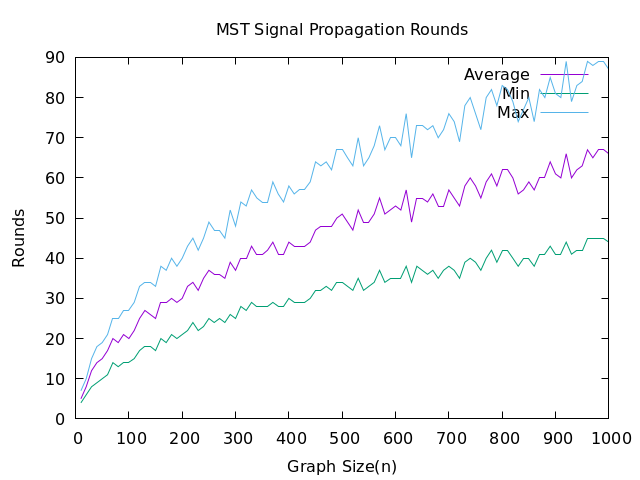
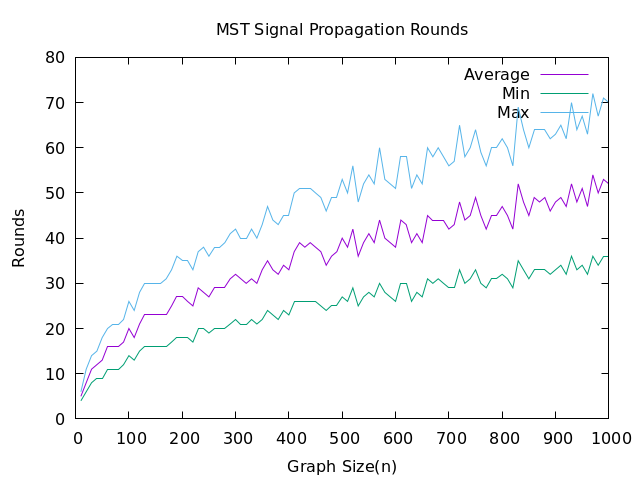
[aisd] Fixed a bug in task 2 from list 5

diff --git a/sem4/aisd/list5/Graph.cpp b/sem4/aisd/list5/Graph.cpp
@@ -138,54 +138,67 @@ std::vector<Edge> Graph::getEdges() const {
     return edges_;
 }
 
-std::pair<std::vector<int>, int> Graph::findShortestInfoSpreadOrder(const int startNode) const {
-    std::vector<std::vector<int>> adjacencyList = createAdjacencyList();
-    std::vector<int> nodeRoundNumbers(size_, -1);
+std::pair<std::vector<std::vector<int>>, std::vector<int>> Graph::findShortestInfoSpreadOrder(
+    const int startNode) const {
+    std::vector<std::vector<int>> childrenLists = createChildrenLists(startNode);
+    std::vector<std::vector<int>> order(size_);
+    std::vector<int> roundsLeft(size_, 0);
+
+    findShortestInfoSpreadOrder(startNode, childrenLists, order, roundsLeft);
+
+    return std::make_pair(order, roundsLeft);
+}
+
+std::vector<std::vector<int>> Graph::createChildrenLists(const int startNode) const {
+    std::vector<std::vector<int>> childrenLists(size_);
+    std::vector<bool> visited(size_, false);
     std::queue<int> nodesToVisit;
 
     nodesToVisit.push(startNode);
-    nodeRoundNumbers[startNode] = 0;
-    int finalRoundNumber = 0;
+    visited[startNode] = true;
 
     while (!nodesToVisit.empty()) {
-        for (int i = 0; i < nodesToVisit.size(); i++) {
-            const int currentNode = nodesToVisit.front();
-            nodesToVisit.pop();
+        const int currentNode = nodesToVisit.front();
+        nodesToVisit.pop();
 
-            std::vector<int> unvisitedNeighbours;
-            for (const int neighbour : adjacencyList[currentNode]) {
-                if (nodeRoundNumbers[neighbour] == -1) {
-                    unvisitedNeighbours.push_back(neighbour);
-                }
-            }
-            std::sort(unvisitedNeighbours.begin(), unvisitedNeighbours.end(),
-                      [&](const int a, const int b) { return adjacencyList[a].size() > adjacencyList[b].size(); });
-            int currentRoundNumber = nodeRoundNumbers[currentNode] + 1;
-
-            for (const int neighbour : unvisitedNeighbours) {
-                if (nodeRoundNumbers[neighbour] == -1) {
-                    nodeRoundNumbers[neighbour] = currentRoundNumber;
-                    finalRoundNumber = std::max(finalRoundNumber, currentRoundNumber);
-                    nodesToVisit.push(neighbour);
-                    currentRoundNumber++;
-                }
+        for (int neighbour = 0; neighbour < size_; neighbour++) {
+            if (!visited[neighbour] && adjacencyMatrix_[currentNode][neighbour] != UNCONNECTED_WEIGHT_) {
+                childrenLists[currentNode].push_back(neighbour);
+                nodesToVisit.push(neighbour);
+                visited[neighbour] = true;
             }
         }
     }
 
-    return std::make_pair(nodeRoundNumbers, finalRoundNumber);
+    return childrenLists;
 }
 
-std::vector<std::vector<int>> Graph::createAdjacencyList() const {
-    std::vector<std::vector<int>> adjacencyList(size_);
-
-    for (int i = 0; i < size_; i++) {
-        for (int j = 0; j < size_; j++) {
-            if (adjacencyMatrix_[i][j] != UNCONNECTED_WEIGHT_) {
-                adjacencyList[i].push_back(j);
-            }
-        }
+void Graph::findShortestInfoSpreadOrder(const int startNode, const std::vector<std::vector<int>> &childrenLists,
+                                        std::vector<std::vector<int>> &order, std::vector<int> &roundsLeft) const {
+    if (isLeaf(startNode, childrenLists)) {
+        return;
     }
 
-    return adjacencyList;
+    const std::vector<int> &currentNodeChildren = childrenLists[startNode];
+
+    for (const auto &child : currentNodeChildren) {
+        findShortestInfoSpreadOrder(child, childrenLists, order, roundsLeft);
+    }
+
+    for (const auto child : currentNodeChildren) {
+        order[startNode].push_back(child);
+    }
+    std::sort(order[startNode].begin(), order[startNode].end(),
+              [&](const int a, const int b) { return roundsLeft[a] > roundsLeft[b]; });
+    roundsLeft[startNode] = roundsLeft[order[startNode][0]] + 1;
+
+    for (int i = 1; i < order[startNode].size(); i++) {
+        if (roundsLeft[startNode] < roundsLeft[order[startNode][i]] + i + 1) {
+            roundsLeft[startNode] = roundsLeft[order[startNode][i]] + i + 1;
+        }
+    }
+}
+
+bool Graph::isLeaf(const int node, const std::vector<std::vector<int>> &childrenLists) const {
+    return childrenLists[node].empty();
 }

diff --git a/sem4/aisd/list5/presentation.cpp b/sem4/aisd/list5/presentation.cpp
@@ -17,7 +17,7 @@ void printAdjacencyMatrix(const std::vector<std::vector<double>> &adjacencyMatri
 int main() {
     Graph graph = Graph::generateRandomCompleteGraph(GRAPH_SIZE);
 
-    std::cout << "Random complete graph:\n";
+    std::cout << "Radom complete graph:\n";
     printAdjacencyMatrix(graph.getAdjecencyMatrix());
 
     std::cout << "\nKruskal's minimum spanning tree:\n";
@@ -26,9 +26,13 @@ int main() {
     std::cout << "\nPrim's minimum spanning tree:\n";
     printAdjacencyMatrix(graph.generatePrimsMinimumSpanningTree().getAdjecencyMatrix());
 
-    std::cout << "\nOrder of shortest information spread:\n";
-    const auto [nodeRoundNumbers, _] = graph.generatePrimsMinimumSpanningTree().findShortestInfoSpreadOrder(0);
+    std::cout << "\nOrder of shortest information spread starting from node 0:\n";
+    const auto [order, roundsLeft] = graph.generatePrimsMinimumSpanningTree().findShortestInfoSpreadOrder(0);
     for (int i = 0; i < GRAPH_SIZE; i++) {
-        std::cout << "Node " << i << ": " << nodeRoundNumbers[i] << '\n';
+        std::cout << "Node " << i << " -> next nodes: [ ";
+        for (const auto node : order[i]) {
+            std::cout << node << ' ';
+        }
+        std::cout << "], rounds left: " << roundsLeft[i] << '\n';
     }
 }

diff --git a/sem4/aisd/list5/Graph.hpp b/sem4/aisd/list5/Graph.hpp
@@ -26,7 +26,7 @@ public:
     std::vector<std::vector<double>> getAdjecencyMatrix() const;
     std::vector<Edge> getEdges() const;
 
-    std::pair<std::vector<int>, int> findShortestInfoSpreadOrder(const int startNode) const;
+    std::pair<std::vector<std::vector<int>>, std::vector<int>> findShortestInfoSpreadOrder(const int startNode) const;
 
 private:
     const int UNCONNECTED_WEIGHT_{-1};
@@ -42,7 +42,10 @@ private:
 
     double generateRandomWeight() const;
 
-    std::vector<std::vector<int>> createAdjacencyList() const;
+    std::vector<std::vector<int>> createChildrenLists(const int startNode) const;
+    void findShortestInfoSpreadOrder(const int startNode, const std::vector<std::vector<int>> &childrenLists,
+                                     std::vector<std::vector<int>> &order, std::vector<int> &roundsLeft) const;
+    bool isLeaf(const int node, const std::vector<std::vector<int>> &childrenLists) const;
 };
 
 #endif  // GRAPH_HPP

diff --git a/sem4/aisd/list5/secondExperiment.cpp b/sem4/aisd/list5/secondExperiment.cpp
@@ -26,7 +26,8 @@ void runExperiment() {
             long long currentMax = std::numeric_limits<long long>::min();
 
             for (int node = 0; node < currentN; node++) {
-                const auto [_, rounds] = graph.findShortestInfoSpreadOrder(node);
+                const auto [_, roundsLeft] = graph.findShortestInfoSpreadOrder(node);
+                const int rounds = roundsLeft[node];
 
                 averageRounds += rounds;
                 currentMin = std::min(currentMin, static_cast<long long>(rounds));
